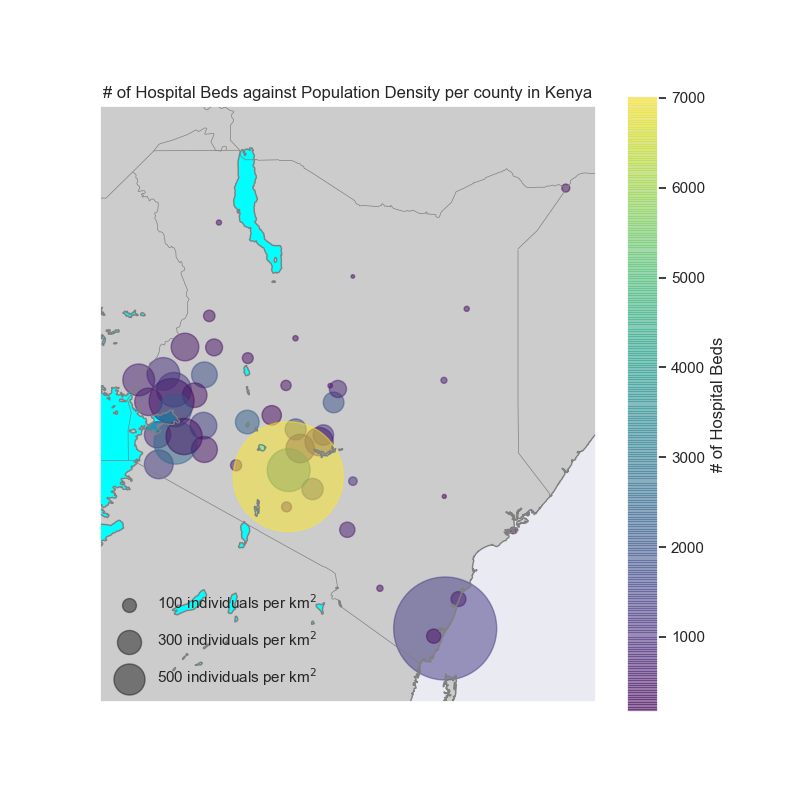
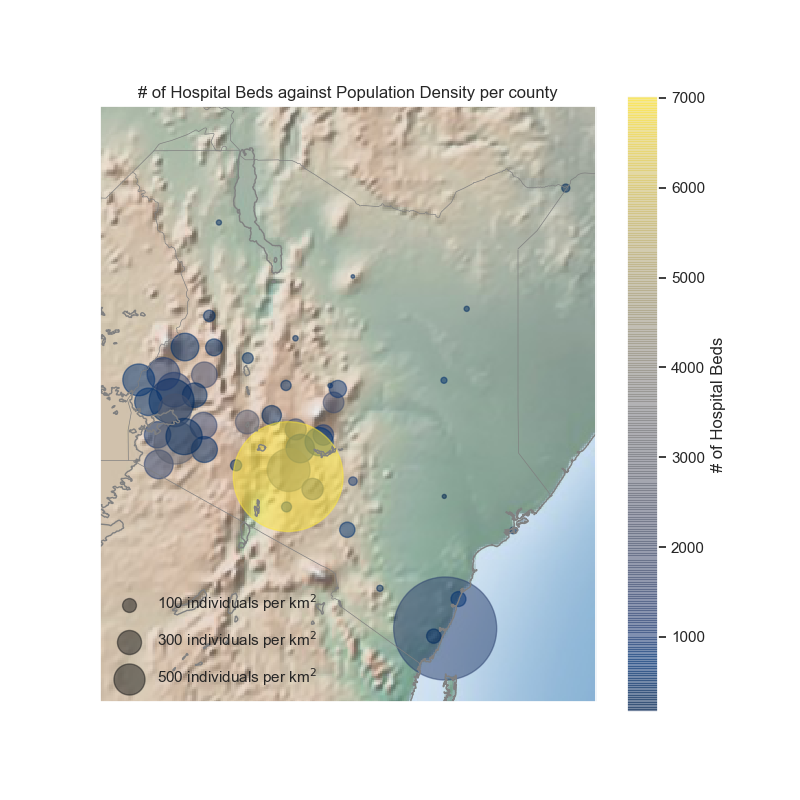
Updated colormaps and used shaded relief basemap

diff --git a/kenya_covid_visualizations.py b/kenya_covid_visualizations.py
@@ -13,7 +13,7 @@ import os
 os.environ["PROJ_LIB"] = 'C:\\Users\\nderi\\.conda\\pkgs\\proj4-5.2.0-ha925a31_1\\Library\\share'
 from mpl_toolkits.basemap import Basemap
 
-def draw_map(lons, lats, pop_density, var_tested, colorbar_label, directory=""):
+def draw_map(lons, lats, pop_density, var_tested, colorbar_label, directory="", colorbar_scheme=""):
     ''' 
     Draws scatterplot Basemap map of Kenya and saves plot in given directory path
     
@@ -23,8 +23,9 @@ def draw_map(lons, lats, pop_density, var_tested, colorbar_label, directory=""):
         pop_density: Numpy array of values representing population density
         var_tested: Numpy array of values representing the variable of interest
         colorbar_label: String representing the colorbar title
-        directory: Optional string, directory path for saving file
-        
+        directory: (Optional) string, directory path for saving file
+        colorbar_scheme: (Optional) string, scheme for colorbar
+
     Returns:
         None
     '''
@@ -33,12 +34,13 @@ def draw_map(lons, lats, pop_density, var_tested, colorbar_label, directory=""):
     _ = plt.figure(figsize=(8,8))
     m = Basemap(projection='lcc', lat_0=0.0236, lon_0=37.9062, width=1E6
     , height=1.2E6, resolution='h')
+    m.shadedrelief()
     m.drawcoastlines(color='gray')
     m.drawcountries(color='gray')
-    m.fillcontinents(lake_color="aqua", zorder=0)
+    # m.fillcontinents(lake_color="aqua", zorder=0)
 
     # Draw scatterplot on the Basemap figure and include colorbar, legend
-    m.scatter(lons, lats, latlon=True, c=var_tested, s=pop_density, cmap='viridis', alpha=0.5)
+    m.scatter(lons, lats, latlon=True, c=var_tested, s=pop_density, cmap=colorbar_scheme, alpha=0.5)
     plt.colorbar(label=colorbar_label)
     for density in [100, 300, 500]:
         plt.scatter([],[],c='k',alpha=0.5,s=density, label=str(density) + ' individuals per km$^2$')
@@ -71,7 +73,8 @@ if __name__ == "__main__":
                  amenities_dataset["Latitude"].values,
                  amenities_dataset["Population Density"].values,
                  amenities_dataset[col].values, col,
-                 "Covid-19 Basic Amenities in Kenya Basemap Visualizations\\")
+                 "Covid-19 Basic Amenities in Kenya Visualized\\",
+                 'cividis')
 
     # Extract second dataset and merge with former dataset to get pop density, longitude and lat
     preparedness_dataset = pd.read_excel("Kenya Covid 19 Need Map - Preparedness Benchmark met.xlsx", sheet_name="Sheet1")
@@ -85,7 +88,8 @@ if __name__ == "__main__":
                      modified_dataset["Population Density"].values,
                      modified_dataset[col].values,
                      col,
-                     "Covid-19 Preparedness Check in Kenya Visualized\\")
+                     "Covid-19 Preparedness Check in Kenya Visualized\\",
+                     "viridis")
 
 
 
